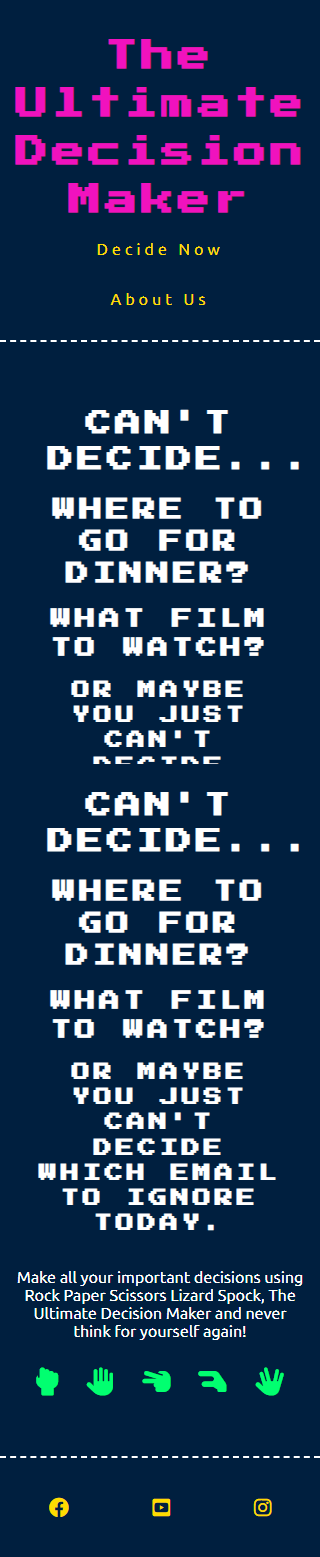
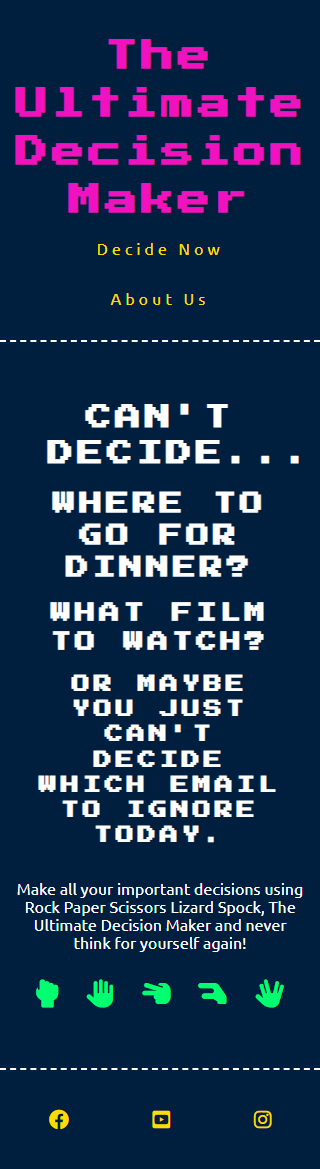
Fix landing screenshot and typos on readme

diff --git a/README.md b/README.md
@@ -3,7 +3,7 @@
 <p>Based on the popular online game 'Rock Paper Scissors Lizard Spock', which is in turn based on the popular real life game 'Rock Paper Scissors', the game can be used to make non-binding decisions without the mental effort required of deciding or to settle objective disagreements between friends and family.</p>
 <p>It is a demonstration of my HTML, CSS and JavaScript skills as required by Portfolio 2 Assessment as part of the Code Institute Diploma in Full Stack Software Development.</p>
 <br>
-<strong>The live site can be found <a href="https://somekindofdesign.github.io/ultimate-decision-maker/">here</a></p></strong>
+<strong>The live website can be found <a href="https://somekindofdesign.github.io/ultimate-decision-maker/">here</a></p></strong>
 <br>
 <p><img width="640px" height=auto src="assets/images/readme/ultimate_decision_maker_mock.png" alt="mock up of desktop, laptop and mobile displaying the ultimate decision maker game website"></p>
 Image by <a href="https://www.freepik.com/free-psd/artist-room-decorated_12220977.htm#query=device%20mockup&position=1&from_view=keyword">Freepik</a>
@@ -38,7 +38,7 @@ Image by <a href="https://www.freepik.com/free-psd/artist-room-decorated_1222097
 
 ## User Experience
 <hr>
-<p>Prior to development, the Ultimate Decision Maker was wireframed using design software, <a href="https://www.figma.com/">Figma</a>. This was to ensure that the design and user experience of the site was explored. Although significant changes were made during development, it provided vital foundational structure to the project.</p>
+<p>Prior to development, the Ultimate Decision Maker was wireframed using design software, <a href="https://www.figma.com/">Figma</a>. This was to ensure that the design and user experience of the website was explored. Although significant changes were made during development, it provided vital foundational structure to the project.</p>
 <p><img width="640px" height=auto src="assets/images/readme/figma.png" alt="graphic representation of the ultimate decision maker website">
 <br><br>
 
@@ -60,11 +60,11 @@ Image by <a href="https://www.freepik.com/free-psd/artist-room-decorated_1222097
 <br>
 
 ### Brand Design
-<p>The site mimics the static, blocky style of early arcade games such as Pacman and Space Invaders. Classic games have seen a revival in popular culture over the last number of years and the Ultimate Decision Maker aims to be part of that nostalgia.
+<p>The website mimics the static, blocky style of early arcade games such as Pacman and Space Invaders. Classic games have seen a revival in popular culture over the last number of years and the Ultimate Decision Maker aims to be part of that nostalgia.
 <ul>
 <li><strong>Colour:</strong> The colour palette uses a dark background and bright, solid colours to highlight different functions and features while relying on white for important detailed information</li>
 <li><strong>Typography:</strong> By using a pixel font for large, headline type and a clean sans-serif for smaller informative type, the typography upholds the arcade theme while maintaining legibilty</li>
-<li><strong>Imagery:</strong> Relying on using repeated icons throughout the site and the game itself is a style choice that mimics the limitations of classic arcade games. In fact, photography could look out of place on the site</li>
+<li><strong>Imagery:</strong> Relying on using repeated icons throughout the website and the game itself is a style choice that mimics the limitations of classic arcade games. In fact, photography could look out of place on the website</li>
 </ul>
 <br>
 
@@ -73,7 +73,7 @@ Image by <a href="https://www.freepik.com/free-psd/artist-room-decorated_1222097
 <br>
 
 ### Responsivity
-<p>The site was designed and built mobile first (from 320px) with each element considered for behaviour on all devices from initial sketching. Em, rem and percentage units and media queries are used were appropriate ensuring an optimised experience for all. Similarly, maximum width has been applied to accommodate extra large screens.</p>
+<p>The website was designed and built mobile first (from 320px) with each element considered for behaviour on all devices from initial sketching. Em, rem and percentage units and media queries are used were appropriate ensuring an optimised experience for all. Similarly, maximum width has been applied to accommodate extra large screens.</p>
 
 [Back to top](#welcome-to-the-ultimate-decision-maker)
 <br><br>
@@ -92,16 +92,16 @@ Image by <a href="https://www.freepik.com/free-psd/artist-room-decorated_1222097
 <br>
 
 <strong>Navigation</strong>
-<p>Featured on all pages, this fully responsive navigation includes links to the landing page, the game and an about page. It is exactly replicated across the site to ensure consistency for the user.</p>
+<p>Featured on all pages, this fully responsive navigation includes links to the landing page, the game and an about page. It is exactly replicated across the website to ensure consistency for the user.</p>
 
-<p>The navigation allows users to browse the site from any page without having to use the back button on their device.</p>
+<p>The navigation allows users to browse the website from any page without having to use the back button on their device.</p>
 
 <p><img width="640px" height=auto src="assets/images/readme/nav_desktop.png" alt="navigation menu of ultimate decision maker website at full width"></p>
 <p><img width="200px" height=auto src="assets/images/readme/nav_mobile.png" alt="navigation menu of ultimate decision maker website at reduced width"></p>
 <br>
 
 <strong>Decision Maker Game</strong>
-<p>The core of the site, this is the game function. Users are provided with instruction and visual cues direct them through the game as they play. They can choose their hand repeatedly and continue the game indefinitley if they wish or reset the game and start over.</p>
+<p>The core of the website, this is the game function. Users are provided with instruction and visual cues direct them through the game as they play. They can choose their hand repeatedly and continue the game indefinitley if they wish or reset the game and start over.</p>
 
 <p><img width="640px" height=auto src="assets/images/readme/game_desktop.png" alt="game section of ultimate decision maker website at full width"></p>
 <p><img width="200px" height=auto src="assets/images/readme/game_mobile.png" alt="game section of ultimate decision maker website at reduced width"></p>
@@ -114,7 +114,7 @@ Image by <a href="https://www.freepik.com/free-psd/artist-room-decorated_1222097
 <br>
 
 <strong>Footer</strong>
-<p>The footer includes links to relevant social media sites, opened in new tabs to avoid taking the user away from this site.</p>
+<p>The footer includes links to relevant social media websites, opened in new tabs to avoid taking the user away from this website.</p>
 
 <p><img width="400px" height=auto src="assets/images/readme/footer.png" alt="footer of ultimate decision maker website"></p>
 <br>
@@ -122,18 +122,18 @@ Image by <a href="https://www.freepik.com/free-psd/artist-room-decorated_1222097
 ### Features to Implement
 <ul>
     <li>Users can personalise the game with custom labels for the choices (e.g. Pizza v Sushi instead of The Choice You Want v The Right Choice)</li>
-    <li>Users can play 'Best out of 3' or 'Best of 5' games</li>
+    <li>Users can play 'Best of 3' or 'Best of 5' games</li>
     <li>Users can add multiple players (Pizza vs Sushi vs BBQ) to the game</li>
 </ul>
 
-<p>In addition to the above, users should be able to learn how to play the game through a choice comparison function. This feature was built during development and was part of a How-to page. However, it required further debugging and failed QA and usability tests. It was removed from the project before deployment/project deadline and the code saved outside of the project to assist with future iterations of the site.</p>
+<p>In addition to the above, users should be able to learn how to play the game through a choice comparison function. This feature was built during development and was part of a How-to page. However, it required further debugging and failed QA and usability tests. It was removed before deployment/project deadline and the code saved outside of the project to assist with future iterations of the website.</p>
 
 [Back to top](#welcome-to-the-ultimate-decision-maker)
 <br><br>
 
 ## Testing
 <hr>
-<p>Throughout the development of this site, testing was carried out on multiple browsers including Chrome, Firefox and Microsoft Edge on Windows 10. The developer tools of these browsers were used to mimic different device sizes. For all testing, each page was asessed across the following criteria;
+<p>Throughout the development of this website, testing was carried out on multiple browsers including Chrome, Firefox and Microsoft Edge on Windows 10. The developer tools of these browsers were used to mimic different device sizes. For all testing, each page was asessed across the following criteria;
 <ul>
     <li>Layout and positioning (ie is everything where it's expected to be on all devices)</li>
     <li>Functions (ie buttons, links, inputs, etc)</li>
@@ -189,7 +189,7 @@ Image by <a href="https://www.freepik.com/free-psd/artist-room-decorated_1222097
 <br>
 
 ### Google Lighthouse
-<p>All pages of the Ultimate Decision Maker site were tested using the Google Lighthouse tool, through Google Chrome Developer tools and <a href="https://web.dev/measure/">Web.dev</a>.</p>
+<p>All pages of the Ultimate Decision Maker website were tested using the Google Lighthouse tool, through Google Chrome Developer tools and <a href="https://web.dev/measure/">Web.dev</a>.</p>
 <ul>
     <li>Performance - 89 (Home), 91 (Decide Now), 88 (About)</li>
     <li>Accessibility - 100 (All)</li>
@@ -212,24 +212,24 @@ Image by <a href="https://www.freepik.com/free-psd/artist-room-decorated_1222097
 
 <p>As there was no access to Apple products at the time of testing, <a href="https://lambdatest.com">LambdaTest.com</a> was used to test Apple mobile devices using Opera and Chrome browser apps and Safari on MacOS.</p>
 
-<p>Samsung and Apple both overwrite some styles including dropdown menus and some buttons. Further investigation is needed to evaluate if there is a need to address this and how it would be accomplished. Other than those identified during development and documented in the 'Unfixed Bugs' section below, no bugs or discrepencies were discovered and the experience was verified to be consistant across browsers.</p>
+<p>Samsung and Apple both overwrite some styles including dropdown menus and some buttons. Further investigation is needed to evaluate if there is a need to address this and how it would be accomplished. Other than those identified during development and documented in the 'Unfixed Bugs' section below, no bugs or discrepencies were discovered and the website was verified to be consistant across browsers.</p>
 <br>
 
 ### User Experience Testing
-<p>Tests were conducted with 3 users, one in-person and two remotely using <a href="https://zoom.us">Zoom</a>. All were tested on mobile first then seperately on desktop devices. In all cases, users understood the purpose of the site and the game, they had no issues navigating or playing the game and the experience was reported to be overall, a positive one.</p>
+<p>Tests were conducted with 3 users, one in-person and two remotely using <a href="https://zoom.us">Zoom</a>. All were tested on mobile first then seperately on desktop devices. In all cases, users understood the purpose of the website and the game, they had no issues navigating or playing the game and the experience was reported to be overall, a positive one.</p>
 
 [Back to top](#welcome-to-the-ultimate-decision-maker)
 <br><br>
 
 ## Unfixed Bugs
 <hr>
-<p>There are several bugs that need to be addressed in the next iteration of this project. None are currently blocking game-play or make the site difficult to use but all would improve the overall user experience.</p>
+<p>There are several bugs that need to be addressed in the next iteration of this project. None are currently blocking game-play or make the website difficult to use but all would improve the overall user experience.</p>
 <ul>
     <li><strong>Space between content:</strong> Empty divs before the game function is executed are creating unnecessary space between the game and related content (score and reset) requiring additional scrolling on mobile.</li>
     <li><strong>Game reset position:</strong> Currently when the user resets the game on tablet or mobile devices, the page reloads and the user is brought back to the top of the page and away from the game. A different solution is required to reset the scores while preserving the scroll position.</li>
     <li><strong>Form success:</strong> After submitting the form the user sees a new tab open and a confirmation page from the Code Institute's form dump. A solution is required to prevent the tab opening without blocking the data from being sent.</li>
     <li><strong>Form input clear:</strong> After submitting the form the data the user has entered into the input fields remain there. An event listener was added to clear them once the submit was clicked but this cleared the fields before the data was posted. An attempt to add a delay after the event was not successfully debugged before the project deadline and removed from this iteration.</li>
-    <li><strong>How-to compare function:</strong> The function appears not to work beyond the first if statement (a tie). No errors are visible in the console, no errors are visible in jshint and attempts to debug using console.log have been unsuccessful as the log appears at every point tested. Although this is not part of the main function of the site, it has been removed from this iteration of the project. All code written so far is saved outside the project.</li>
+    <li><strong>How-to compare function:</strong> The function appears not to work beyond the first if statement (a tie). No errors are visible in the console, no errors are visible in jshint and attempts to debug using console.log have been unsuccessful as the log appears at every point tested. Although this is not part of the main function of the website, it has been removed from this iteration of the project. All code written so far is saved outside the project.</li>
 </ul>
 
 [Back to top](#welcome-to-the-ultimate-decision-maker)
@@ -239,7 +239,7 @@ Image by <a href="https://www.freepik.com/free-psd/artist-room-decorated_1222097
 <hr>
 
 ### Deployment
-<p>As part of the Code Institute submission process, this site was deployed to GitHub pages. The steps to deploy are as follows:</p>
+<p>As part of the Code Institute submission process, this website was deployed to GitHub pages. The steps to deploy are as follows:</p>
 <ol>
     <li>Open github.com and log in to user account</li>
     <li>Find the Ultimate Decision Maker repository</li>
@@ -250,7 +250,7 @@ Image by <a href="https://www.freepik.com/free-psd/artist-room-decorated_1222097
     <li>Click save</li>
 </ol
 
-<p><strong>The live site can be found here - <a href="https://somekindofdesign.github.io/ultimate-decision-maker/">https://somekindofdesign.github.io/ultimate-decision-maker/</a></p></strong>
+<p><strong>The live website can be found here - <a href="https://somekindofdesign.github.io/ultimate-decision-maker/">https://somekindofdesign.github.io/ultimate-decision-maker/</a></p></strong>
 <p>Initial depolyment was successful and subsequent testing across multiple browsers found no discrepencies.</p>
 <br>
 
